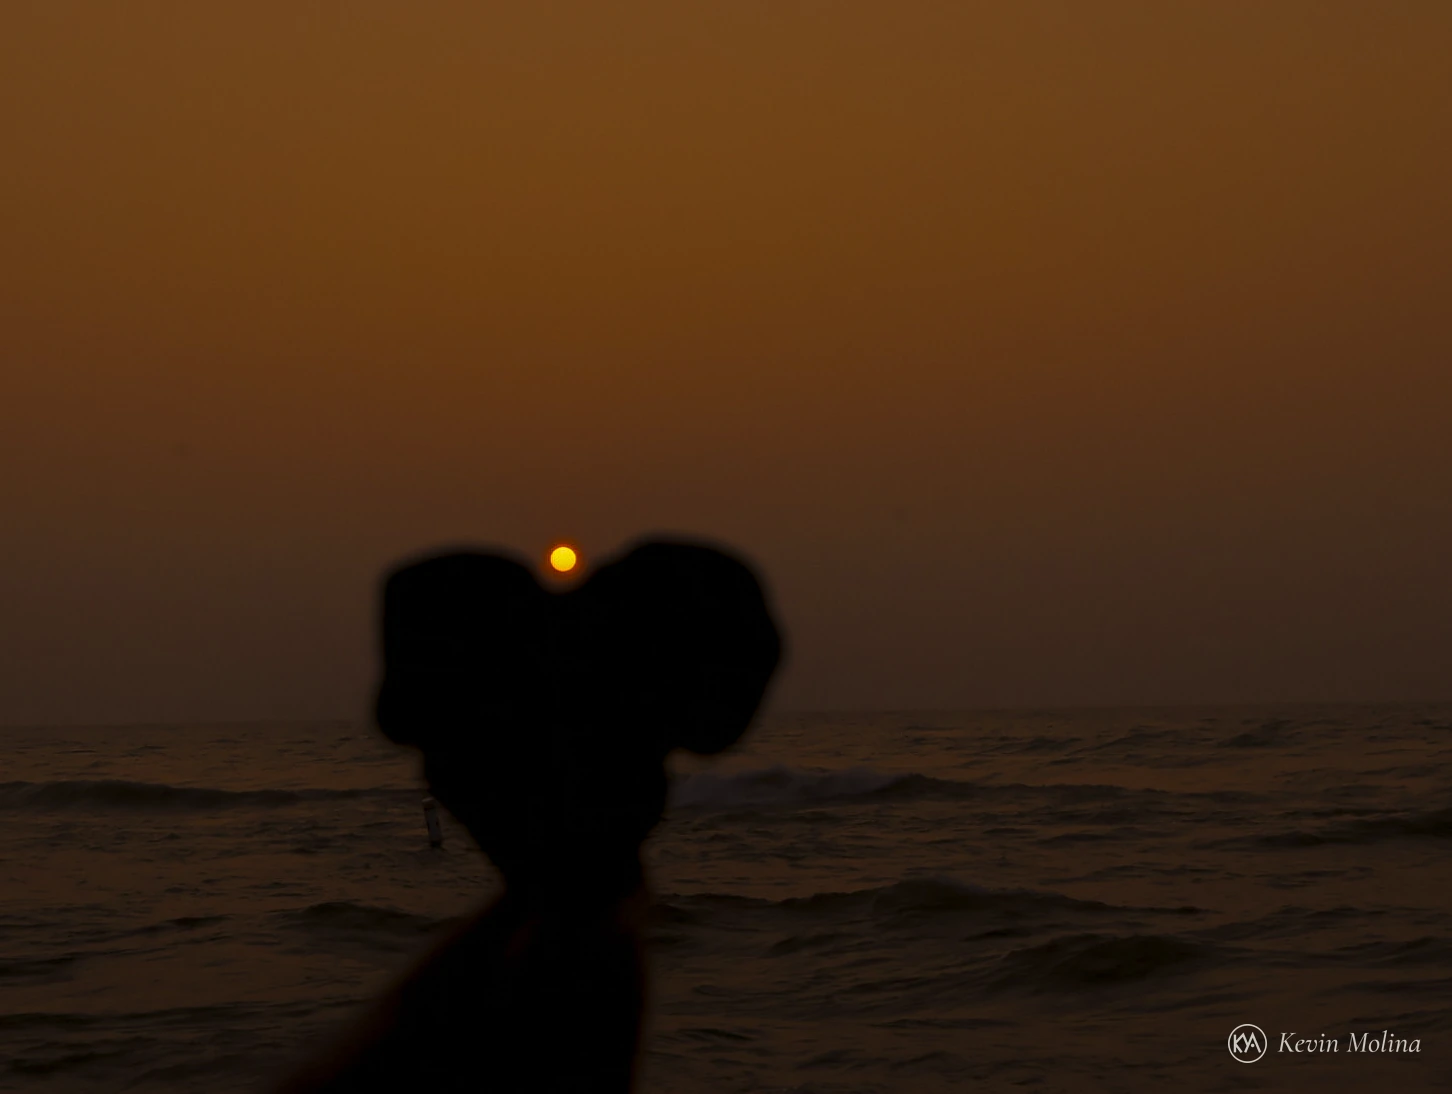
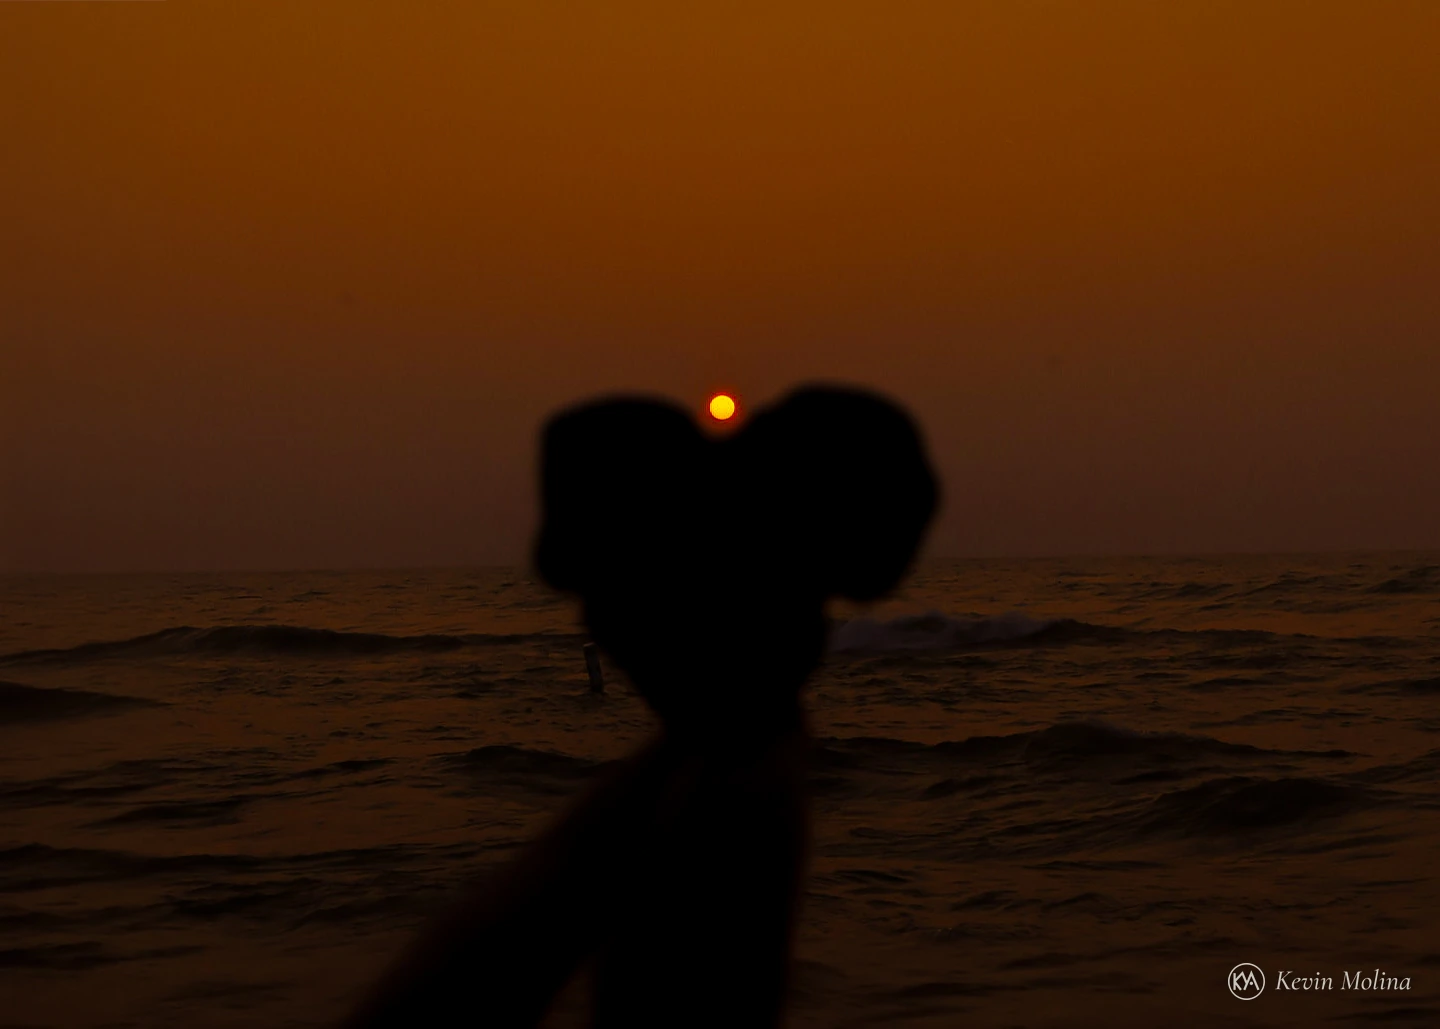
Nueva versión de la foto Corazón al atardecer con mejor composición
Claude-Session: https://claude.ai/code/session_01MNHiF7drNqyyJkL8tDtSqf

diff --git a/index.html b/index.html
@@ -635,7 +635,7 @@ dialog.viewer[open]{animation:fade .25s ease-out}
     {cat:'eventos',      title:'La festejada',           ar:'808/1094',  src:'fotos/festejada.webp',      alt:'Bebé con vestido blanco sentada en una silla durante su fiesta'},
     {cat:'arquitectura', title:'Tren elevado',           ar:'820/1094',  src:'fotos/tren-elevado.webp',   alt:'Tren elevado pasando junto a un farol antiguo y edificios de piedra'},
     {cat:'paisaje',      title:'Atardecer en el lago',   ar:'820/1094',  src:'fotos/atardecer-lago.webp', alt:'Cielo naranja al atardecer sobre un lago con casas y árboles en silueta'},
-    {cat:'paisaje',      title:'Corazón al atardecer',   ar:'1452/1094', src:'fotos/corazon-sol.webp',    alt:'Manos formando un corazón en silueta con el sol sobre el mar'},
+    {cat:'paisaje',      title:'Corazón al atardecer',   ar:'1440/1029', src:'fotos/corazon-sol.webp',    alt:'Manos formando un corazón en silueta con el sol sobre el mar'},
     {cat:'retrato',      title:'Muro de grafiti',        ar:'730/1094',  src:'fotos/muro-grafiti.webp',   alt:'Hombre recargado en un muro de grafiti exhalando humo'}
   ];
   var LABELS = {paisaje:'Paisaje', retrato:'Retrato', fauna:'Fauna', arquitectura:'Arquitectura', eventos:'Eventos'};
